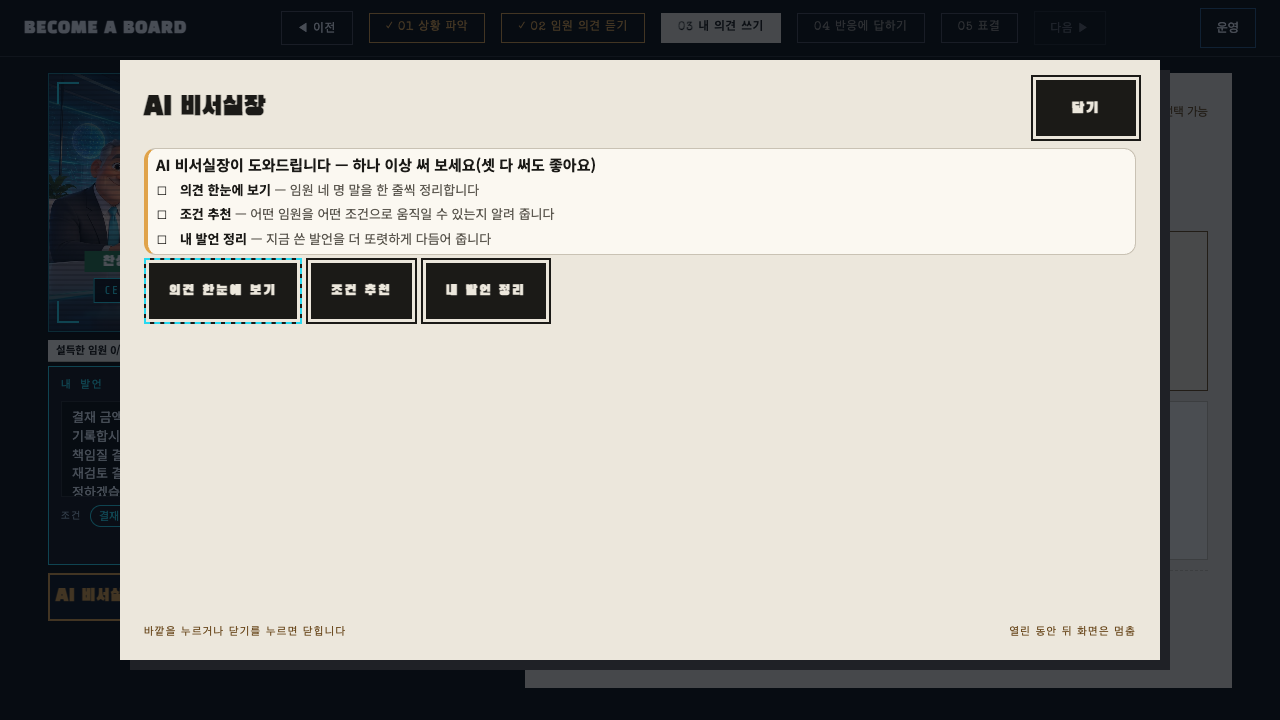
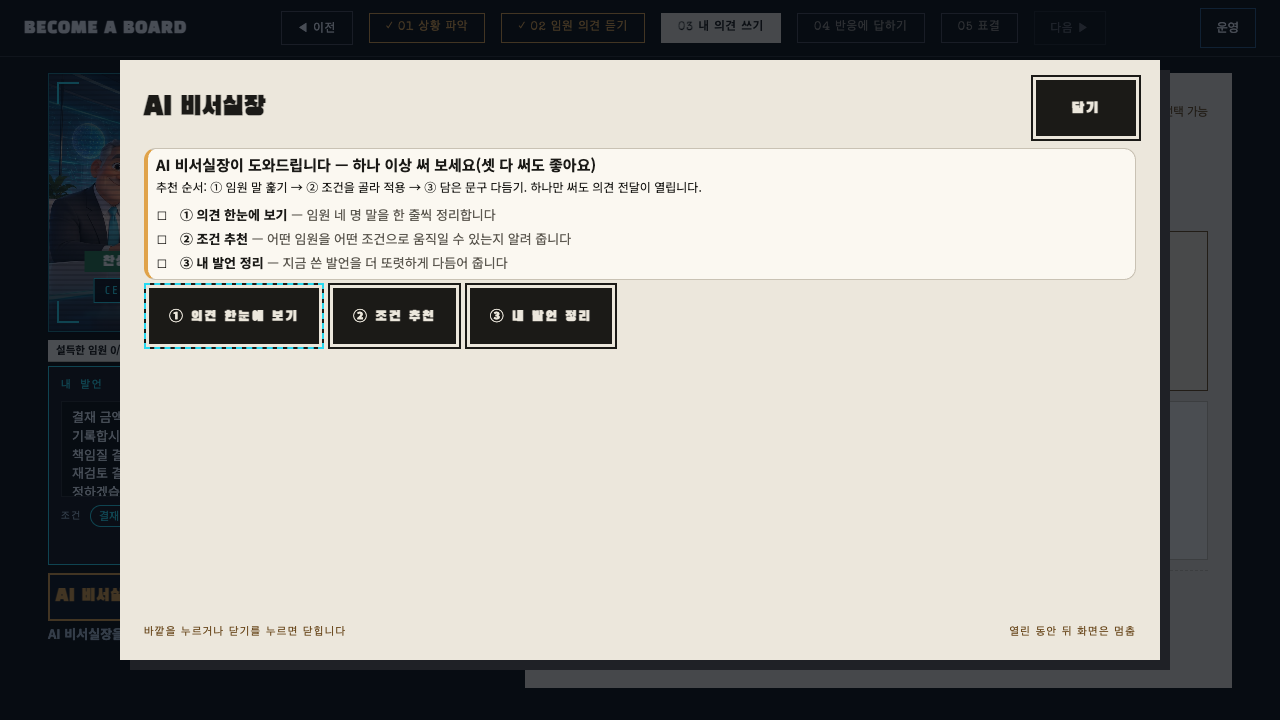
T141: AI 비서실장 세 기능에 ①②③ 번호와 추천 순서 한 줄(순서 강제 없음)

Changed region(s): [[0.0938, 0.2444, 0.5312, 0.4889], [0.0312, 0.8556, 0.0938, 0.8861]]

diff --git a/src/components/parts/AssistantPanel.tsx b/src/components/parts/AssistantPanel.tsx
@@ -41,6 +41,15 @@ const FEATURE_LABELS: Record<FeatureKey, string> = {
   refine: '내 발언 정리',
 };
 
+// T141: 부스 안내판 3-3의 ①②③과 같은 번호. 추천 순서일 뿐 실행 순서를 강제하지 않는다.
+const FEATURE_NUMBERS: Record<FeatureKey, string> = {
+  summary: '①',
+  compare: '②',
+  refine: '③',
+};
+const numberedLabel = (feature: FeatureKey): string =>
+  `${FEATURE_NUMBERS[feature]} ${FEATURE_LABELS[feature]}`;
+
 // T97: 팝업 첫 화면 소개(DISCUSS만). 기능마다 쉬운 말 한 문장.
 const FEATURE_DESCRIPTIONS: Record<FeatureKey, string> = {
   summary: '임원 네 명 말을 한 줄씩 정리합니다',
@@ -546,6 +555,9 @@ export function AssistantPanel({
                     <h3 className="assistant-intro__title">
                       AI 비서실장이 도와드립니다 — 하나 이상 써 보세요(셋 다 써도 좋아요)
                     </h3>
+                    <p className="assistant-intro__order" data-testid="assistant-intro-order">
+                      추천 순서: ① 임원 말 훑기 → ② 조건을 골라 적용 → ③ 담은 문구 다듬기. 하나만 써도 의견 전달이 열립니다.
+                    </p>
                     <ul className="assistant-intro__list">
                       {ASSISTANT_FEATURE_ORDER.map((feature) => {
                         const used = requiredFeatures.used.has(feature);
@@ -560,7 +572,7 @@ export function AssistantPanel({
                             >
                               {used ? '☑' : '☐'}
                             </span>
-                            <strong>{FEATURE_LABELS[feature]}</strong>
+                            <strong>{numberedLabel(feature)}</strong>
                             <span className="assistant-intro__desc">
                               {' '}
                               — {FEATURE_DESCRIPTIONS[feature]}
@@ -586,7 +598,7 @@ export function AssistantPanel({
                         >
                           {requiredFeatures.used.has(feature) ? '☑' : '☐'}
                         </span>{' '}
-                        {FEATURE_LABELS[feature]}
+                        {numberedLabel(feature)}
                       </span>
                     ))}
                   </p>
@@ -612,7 +624,7 @@ export function AssistantPanel({
                     data-testid={`assistant-action-${feature}`}
                     {...nextStepAttr(focusNext && status !== 'loading' && feature === firstUnusedFeature)}
                   >
-                    {status === 'loading' && activeFeature === feature ? `${FEATURE_LABELS[feature]} · 정리 중…` : FEATURE_LABELS[feature]}
+                    {status === 'loading' && activeFeature === feature ? `${numberedLabel(feature)} · 정리 중…` : numberedLabel(feature)}
                     {used && (
                       <span
                         className="assistant-panel__done-mark"

diff --git a/tests/components/AssistantPanel.test.tsx b/tests/components/AssistantPanel.test.tsx
@@ -153,6 +153,17 @@ describe('AssistantPanel 필수 사용 소개(T97)', () => {
     expect(screen.getByTestId('assistant-intro-done')).toBeInTheDocument();
   });
 
+  it('버튼 이름에 ①②③이 들어가고 추천 순서 한 줄이 있으며 버튼은 모두 눌린다(T141)', () => {
+    render(<AssistantPanel {...base()} requiredFeatures={{ used: new Set() }} />);
+    fireEvent.click(screen.getByTestId('assistant-toggle'));
+    expect(screen.getByRole('button', { name: /^① 의견 한눈에 보기/ })).toBeEnabled();
+    expect(screen.getByRole('button', { name: /^② 조건 추천/ })).toBeEnabled();
+    expect(screen.getByRole('button', { name: /^③ 내 발언 정리/ })).toBeEnabled();
+    const order = screen.getByTestId('assistant-intro-order');
+    expect(order).toHaveTextContent('추천 순서: ① 임원 말 훑기 → ② 조건을 골라 적용 → ③ 담은 문구 다듬기');
+    expect(order).toHaveTextContent('하나만 써도 의견 전달이 열립니다');
+  });
+
   it('한 기능만 써도 완료 문구가 뜨고, 하나도 안 쓰면 안 뜬다(T109)', () => {
     const { unmount } = render(
       <AssistantPanel {...base()} requiredFeatures={{ used: new Set(['compare']) }} />,

diff --git a/src/styles/screens/assistant.css b/src/styles/screens/assistant.css
@@ -183,6 +183,13 @@
   line-height: 1.35;
 }
 
+.assistant-intro__order {
+  margin: 0 0 var(--space-1);
+  font-size: var(--fs-meta);
+  line-height: 1.4;
+  color: var(--ink);
+}
+
 .assistant-intro__list {
   margin: 0;
   padding: 0;

diff --git a/docs/FACILITATOR_GUIDE.md b/docs/FACILITATOR_GUIDE.md
@@ -13,7 +13,7 @@
 | 브리핑 | 자료 4장 위치 안내. “자료명·해석·원문이 모두 사전 구성된 체험용 자료입니다.” (AI 정리 카드는 T52에서 제거) 근거 자료를 한 번 열어 닫기 전에는 "의견 듣기 ▶"가 잠겨 있다(T95) — 안내를 켠 체험이면 진행 도우미가 "근거 자료 보기"를 밝혀 주고, 아니면 요원이 먼저 누르게 안내 | 실제 모델 호출·시간 절감 효과로 과장하지 않음 |
 | 의견 | “어떤 근거를 더 살펴보고 싶으신가요?” | 찬반 입장 선택을 먼저 요구하지 않음 |
 | 발언 | 안내를 켠 체험이면 진행 도우미(말풍선 + 밝게 비춘 곳)가 ① 입장 ② 추천 문구 ③ AI 비서실장 한 가지 이상 ④ 의견 전달 순서를 한 단계씩 알려 준다 — 요원은 "밝게 보이는 곳을 눌러 보세요"라고만 말하면 된다. 마우스 복수 선택·직접 입력 안내. 요청 시 서기 입력. 왼쪽 "설득 현황판"(T96)을 가리키며 "이 임원은 이 조건이 필요합니다"라고 안내 — 아직 설득되지 않은 임원과 움직일 조건이 한 줄씩 보인다 | 요원이 문구·조건을 대신 결정하지 않음. 현황판은 참고일 뿐, 꼭 그 조건을 붙이라고 강요하지 않음 |
-| 발언(AI 비서실장, 필수) | 문구를 고른 뒤 "AI 비서실장에게 맡기기"를 눌러 **세 기능(의견 한눈에 보기·조건 추천·내 발언 정리) 중 한 가지 이상**을 써 보게 안내한다(T109, 셋 다 써도 좋다). 하나라도 쓰면 "의견 전달" 버튼이 열리고, 팝업 안 체크(☑)가 쓴 기능을 보여 준다. 막히면 결과든 실패·연결 지연 안내든 아무거나 뜨면 완료로 친다(정리한 초안은 "원문 유지"를 눌러도 된다) | 비서실장 결과를 따라야 한다고 강요하지 않음. 이 필수는 발언 단계(DISCUSS)에만 있고 다시 답하기는 안 써도 됨 |
+| 발언(AI 비서실장, 필수) | 문구를 고른 뒤 "AI 비서실장에게 맡기기"를 눌러 **세 기능(① 의견 한눈에 보기·② 조건 추천·③ 내 발언 정리, 부스 안내판 3-3과 같은 번호) 중 한 가지 이상**을 써 보게 안내한다(T109, 셋 다 써도 좋다). 팝업에 "추천 순서 ①→②→③"이 적혀 있지만 순서는 권유일 뿐 아무거나 먼저 눌러도 된다(T141). 하나라도 쓰면 "의견 전달" 버튼이 열리고, 팝업 안 체크(☑)가 쓴 기능을 보여 준다. 막히면 결과든 실패·연결 지연 안내든 아무거나 뜨면 완료로 친다(정리한 초안은 "원문 유지"를 눌러도 된다) | 비서실장 결과를 따라야 한다고 강요하지 않음. 이 필수는 발언 단계(DISCUSS)에만 있고 다시 답하기는 안 써도 됨 |
 | 다음 할 일 점선(T113) | 화면마다 지금 눌러야 할 버튼·카드 하나가 숨 쉬듯 깜빡이는 점선 테두리로 표시된다. 6초 동안 아무것도 안 누르면 나타나고, 무언가 누르면 바로 다음 할 일로 옮겨 간다. "점선이 깜빡이는 곳을 눌러 보세요"라고만 안내한다. 끄려면 주소 끝에 `?focus=off` | 점선은 안내일 뿐 누르게 강제하지 않는다. 버튼 잠금 규칙은 그대로다 |
 | 안내가 화면을 가릴 때(T112) | 안내 아이콘이나 말풍선 제목 줄을 마우스로 끌어 다른 곳에 둘 수 있다. "안내가 가리면 끌어서 치워 두세요." 더블클릭하면 원래 자리로 돌아온다 | 옮긴 자리는 화면이 바뀌어도 이어지고 새 체험에서 처음 자리로 돌아온다 |
 | 발언(AI 비서실장) | 막막해 하면 "AI 비서실장에게 맡기기 → 조건 추천"을 눌러 보게 안내 — 아직 이사님 편이 아닌 임원과 그 임원을 움직이는 조건·걱정이 함께 보이고, "적용"을 누르면 그 조건이 바로 체크된다 | 비서실장이 참가자 대신 결정하는 게 아니라 "참고 자료"라고 설명. 적용 뒤에도 문구는 참가자가 고치거나 해제할 수 있음 |

diff --git a/docs/TASKS.md b/docs/TASKS.md
@@ -12,7 +12,7 @@
 | --- | --- | --- |
 | T110 | 완료 | 난이도 조절 — 첫 의견(추천 문구)만으로 전원 설득되지 않게(2026-10-09 사용자 지시): 1차 반응은 조건이 맞아도 '고민 중'까지만, 추가 질문에 답(`session.followUpAnswered`)해야 찬성, 답하지 않고 넘어가면 표결에서 반대(반대 참가자는 대칭). scripted(`VoteContext.followUpAnswered`·`reactions[].pendingText`)와 live(프롬프트 v12) 모두. 상세는 아래 T110 카드와 DESIGN_SPEC T110 |
 | T142 | 대기 | 반응에 답하기의 '넘어가기'를 누르면 바로 넘어가지 않고 확인 체크리스트(추가 질문·추천 답변·AI 비서실장)를 먼저 띄움. 넘어간 뒤 결과는 미리 말하지 않음(2026-10-17 사용자 지시). 상세는 아래 T142 카드 |
-| T141 | 대기 | AI 비서실장 세 기능 버튼에 ①②③ 번호와 추천 순서 한 줄(순서 강제 없음)(2026-10-17 사용자 지시, 시안 https://claude.ai/artifact/MP4hQmQi79FUtwdq9fXnRp B3). 상세는 아래 T141 카드 |
+| T141 | 완료 | AI 비서실장 세 기능 버튼에 ①②③ 번호와 추천 순서 한 줄(순서 강제 없음)(2026-10-17 사용자 지시, 시안 https://claude.ai/artifact/MP4hQmQi79FUtwdq9fXnRp B3). 상세는 아래 T141 카드. 완료: 버튼·목록·압축 줄에 ①②③ + 소개 상자 추천 순서 한 줄, 강제 없음 |
 | T140 | 완료 | 내 의견 화면 진행 도우미를 체크리스트(3-1~3-4)로 남기고, 잠긴 '의견 전달' 옆에 이유를 보이게(2026-10-17 사용자 지시, 시안 https://claude.ai/artifact/MP4hQmQi79FUtwdq9fXnRp B1·B2). 상세는 아래 T140 카드 결과: DISCUSS 코치만 체크리스트(domain/coach.ts discussChecklist·discussProgressStore)로 첫 조작에 안 닫히고 '접기'로만 접힘, 잠긴 전달 이유(discuss-cta-hint) 한 줄 표시, e2e coach·discuss·noscroll·flow-full 1080·720 통과 |
 | T139 | 완료 | 결과 보고서 "반영 조건" 칸: 반대 쪽 조건만 있을 때 "조건 없이 처음 안 그대로 표결" 대신 "안건 문구는 처음 안 그대로 표결"(아래 이사님이 요구한 조건 목록과 어긋나지 않게)(2026-10-17 사용자 지시) |
 | T138 | 완료 | 반대 입장 첫 의견 균형(첫 의견에서 한 번에 설득되지 않게 — 기울음까지만, 답해야 확정) + 반대 쪽은 설득하는 조건만 붙음(함정 조건 제거)(2026-10-17 사용자 지시). 상세는 아래 T138 카드 |

diff --git a/docs/design/DESIGN_SPEC.md b/docs/design/DESIGN_SPEC.md
@@ -1339,3 +1339,10 @@ MOTION·다시 답하기(REACTIONS 2/2)·ATTRACT·INTRO·SELECT에는 안내가 
 - **잠긴 '의견 전달' 이유**: sr-only였던 `discuss-cta-hint`("먼저 입장을 골라 주세요" / "추천 문구를 고르거나 직접 써 주세요" / "AI 비서실장을 한 번 써 보세요")를 버튼 줄 아래 한 줄(`.discuss-screen__cta-hint`, 전체 너비)로 보이게 했다. 버튼이 열리면 사라진다. 키 작은 화면(≤1280 또는 ≤900px 높이)은 13px·줄 높이 1.05·위 간격 -4px로 입력 상자(HUD)가 줄지 않게 했다(noscroll HUD 검사 1536×864 기준).
 - **그대로 둔 것**: 의견 전달 활성 규칙(T109), 다른 화면 코치, 다음 할 일 점선(T113) 규칙.
 - 테스트: `tests/domain/coach.test.ts discussChecklist`, `tests/components/Coach.test.tsx`(접기로만 닫힘), e2e `coach.spec.ts`(✓·▶ 이동·접기·아이콘 재열기), 스크린샷 `coach-discuss`·`discuss-locked`·`discuss`.
+
+## T141 AI 비서실장 기능 번호와 추천 순서 (2026-10-18)
+
+- 세 기능 버튼·소개 목록·압축 줄이 모두 `① 의견 한눈에 보기` `② 조건 추천` `③ 내 발언 정리`로 같은 번호를 쓴다(부스 안내판 3-3의 ①②③과 같음). 번호는 글자로 라벨 앞에 붙어 접근 가능한 이름에 들어간다. 내부 feature key·`FEATURE_LABELS`·로그 문구는 그대로다.
+- 소개 상자(DISCUSS 첫 화면)에 한 줄: "추천 순서: ① 임원 말 훑기 → ② 조건을 골라 적용 → ③ 담은 문구 다듬기. 하나만 써도 의견 전달이 열립니다." 순서는 권유일 뿐이다 — 버튼을 비활성화하거나 순서를 강제하지 않고, T109대로 한 가지만 써도 열린다.
+- 다시 답하기(REACTIONS 2/2) 팝업은 같은 컴포넌트라 버튼 번호가 같다. 그 화면은 비서실장이 선택이라 소개 상자(필수·"하나만 써도" 문장)가 없다.
+- 테스트: `tests/components/AssistantPanel.test.tsx`, 스크린샷 `discuss-assistant-intro`.
